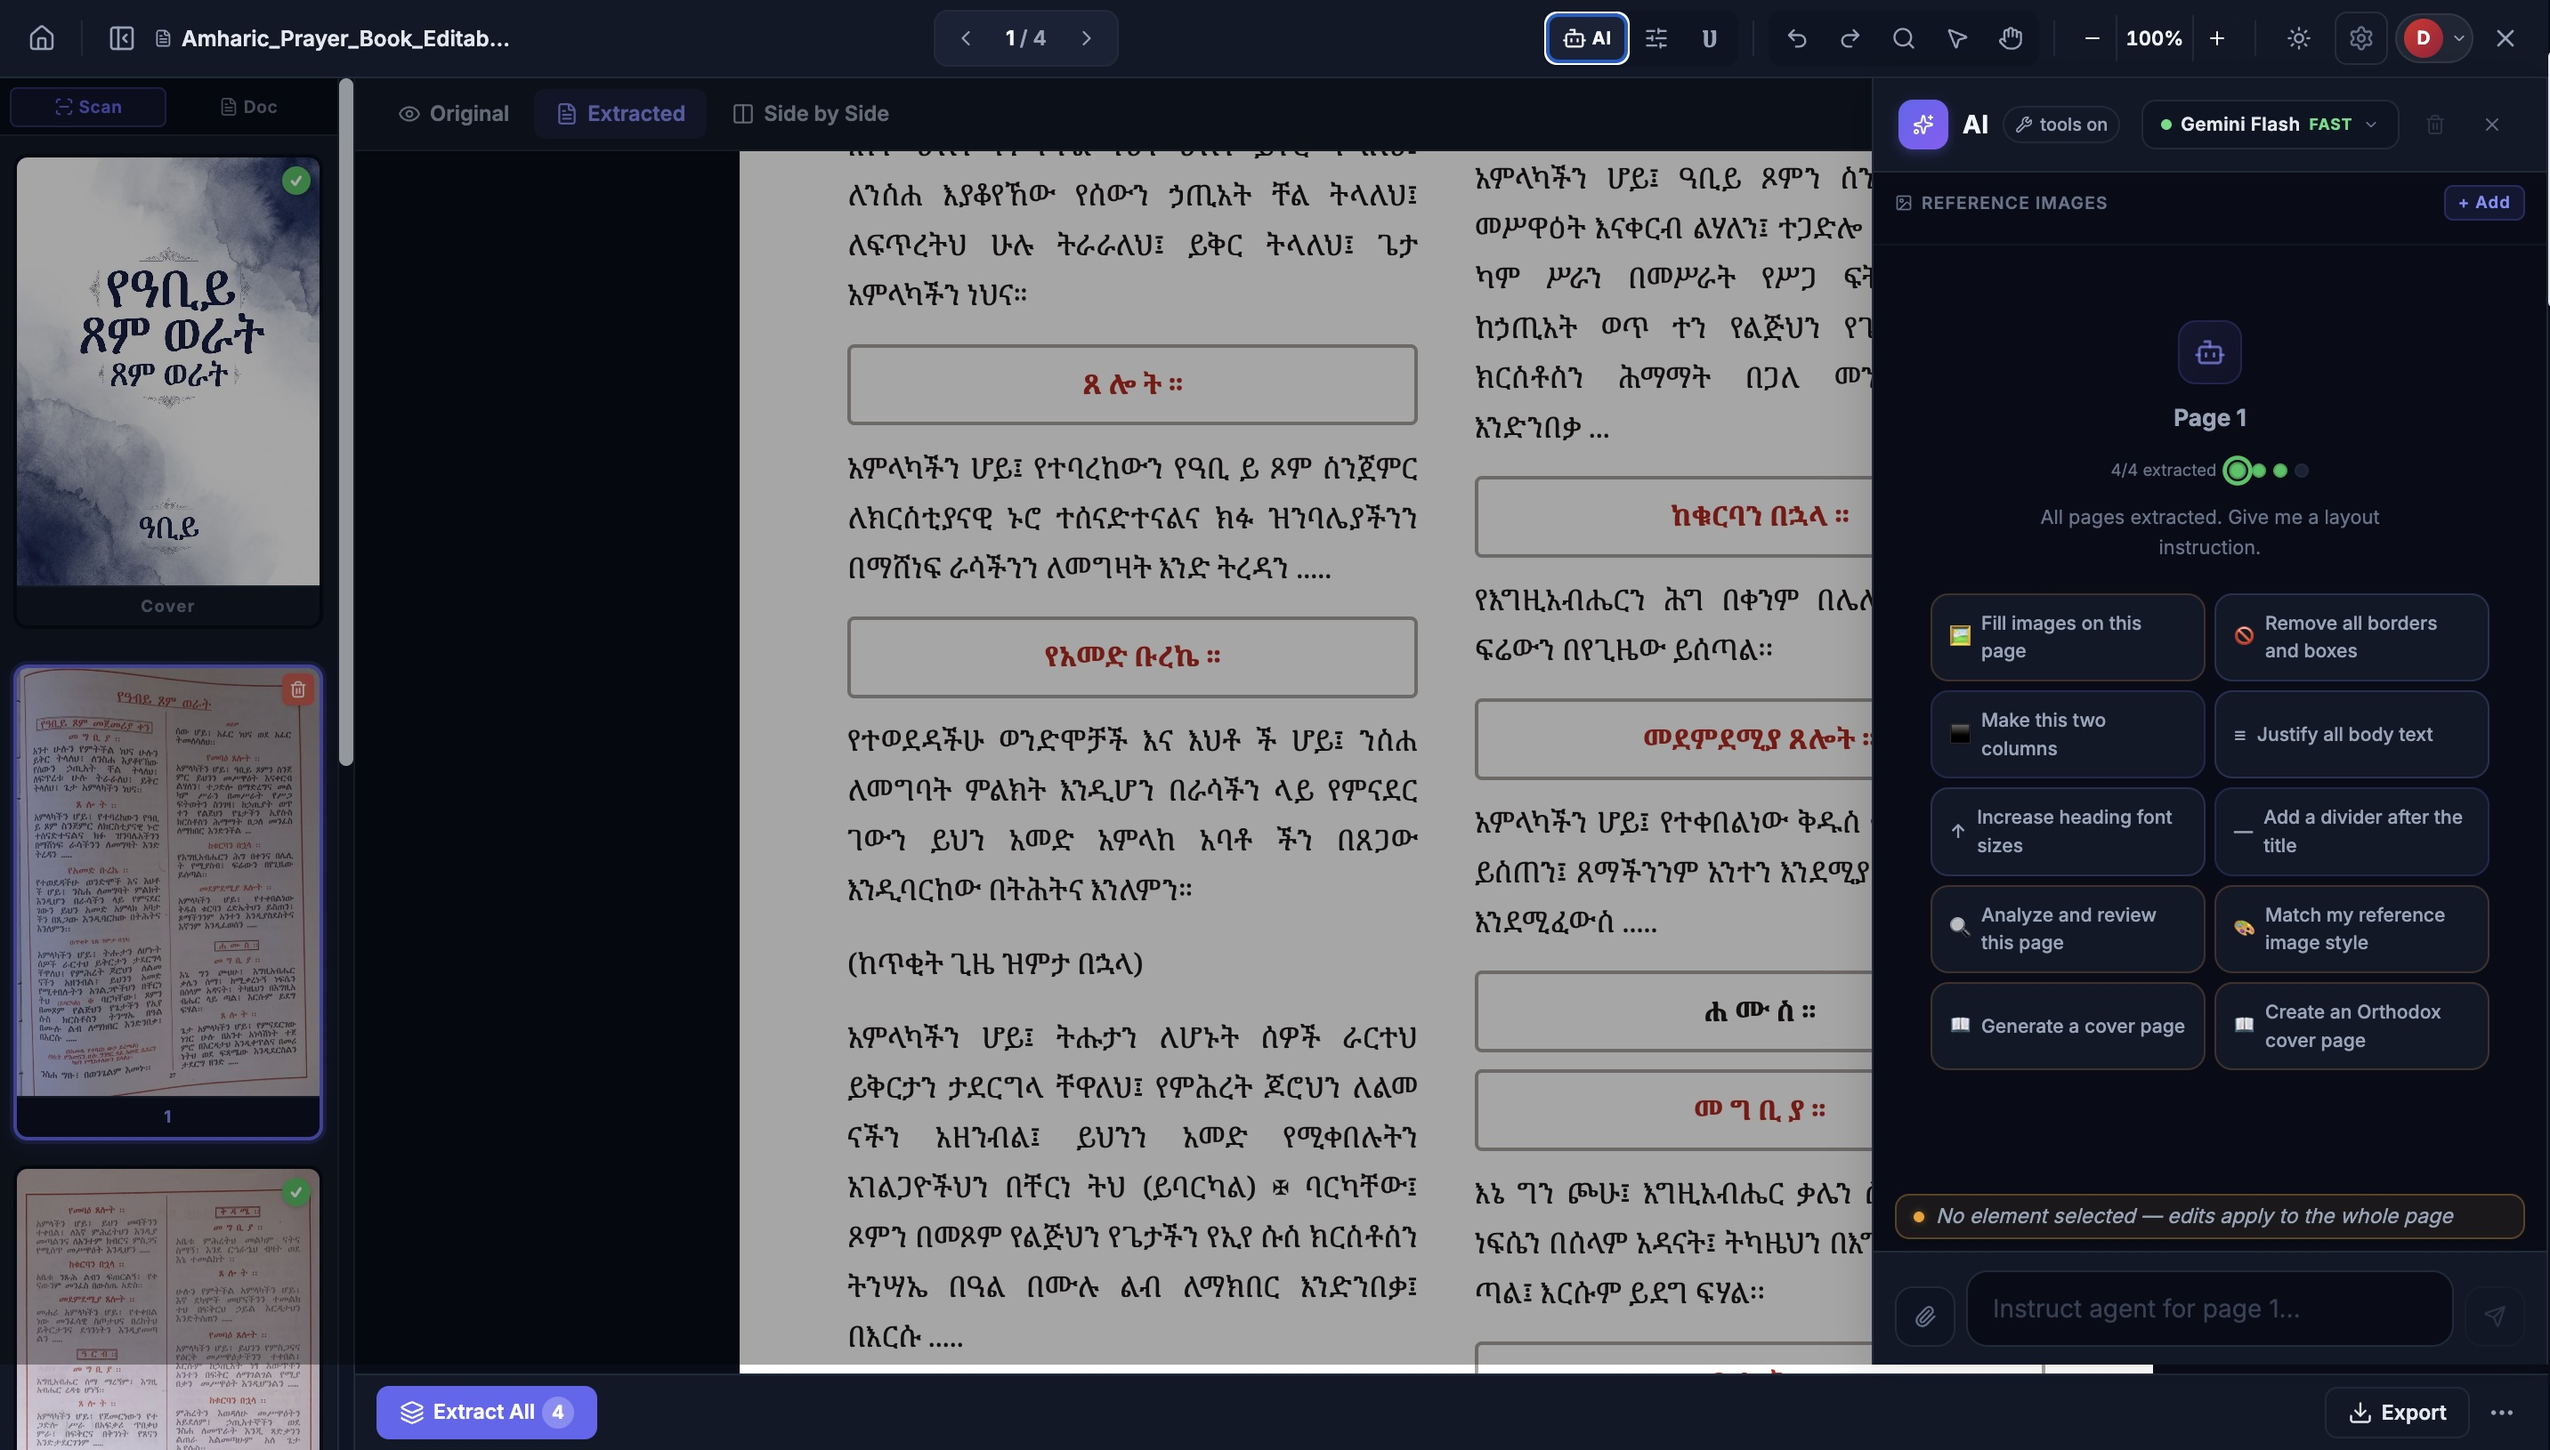
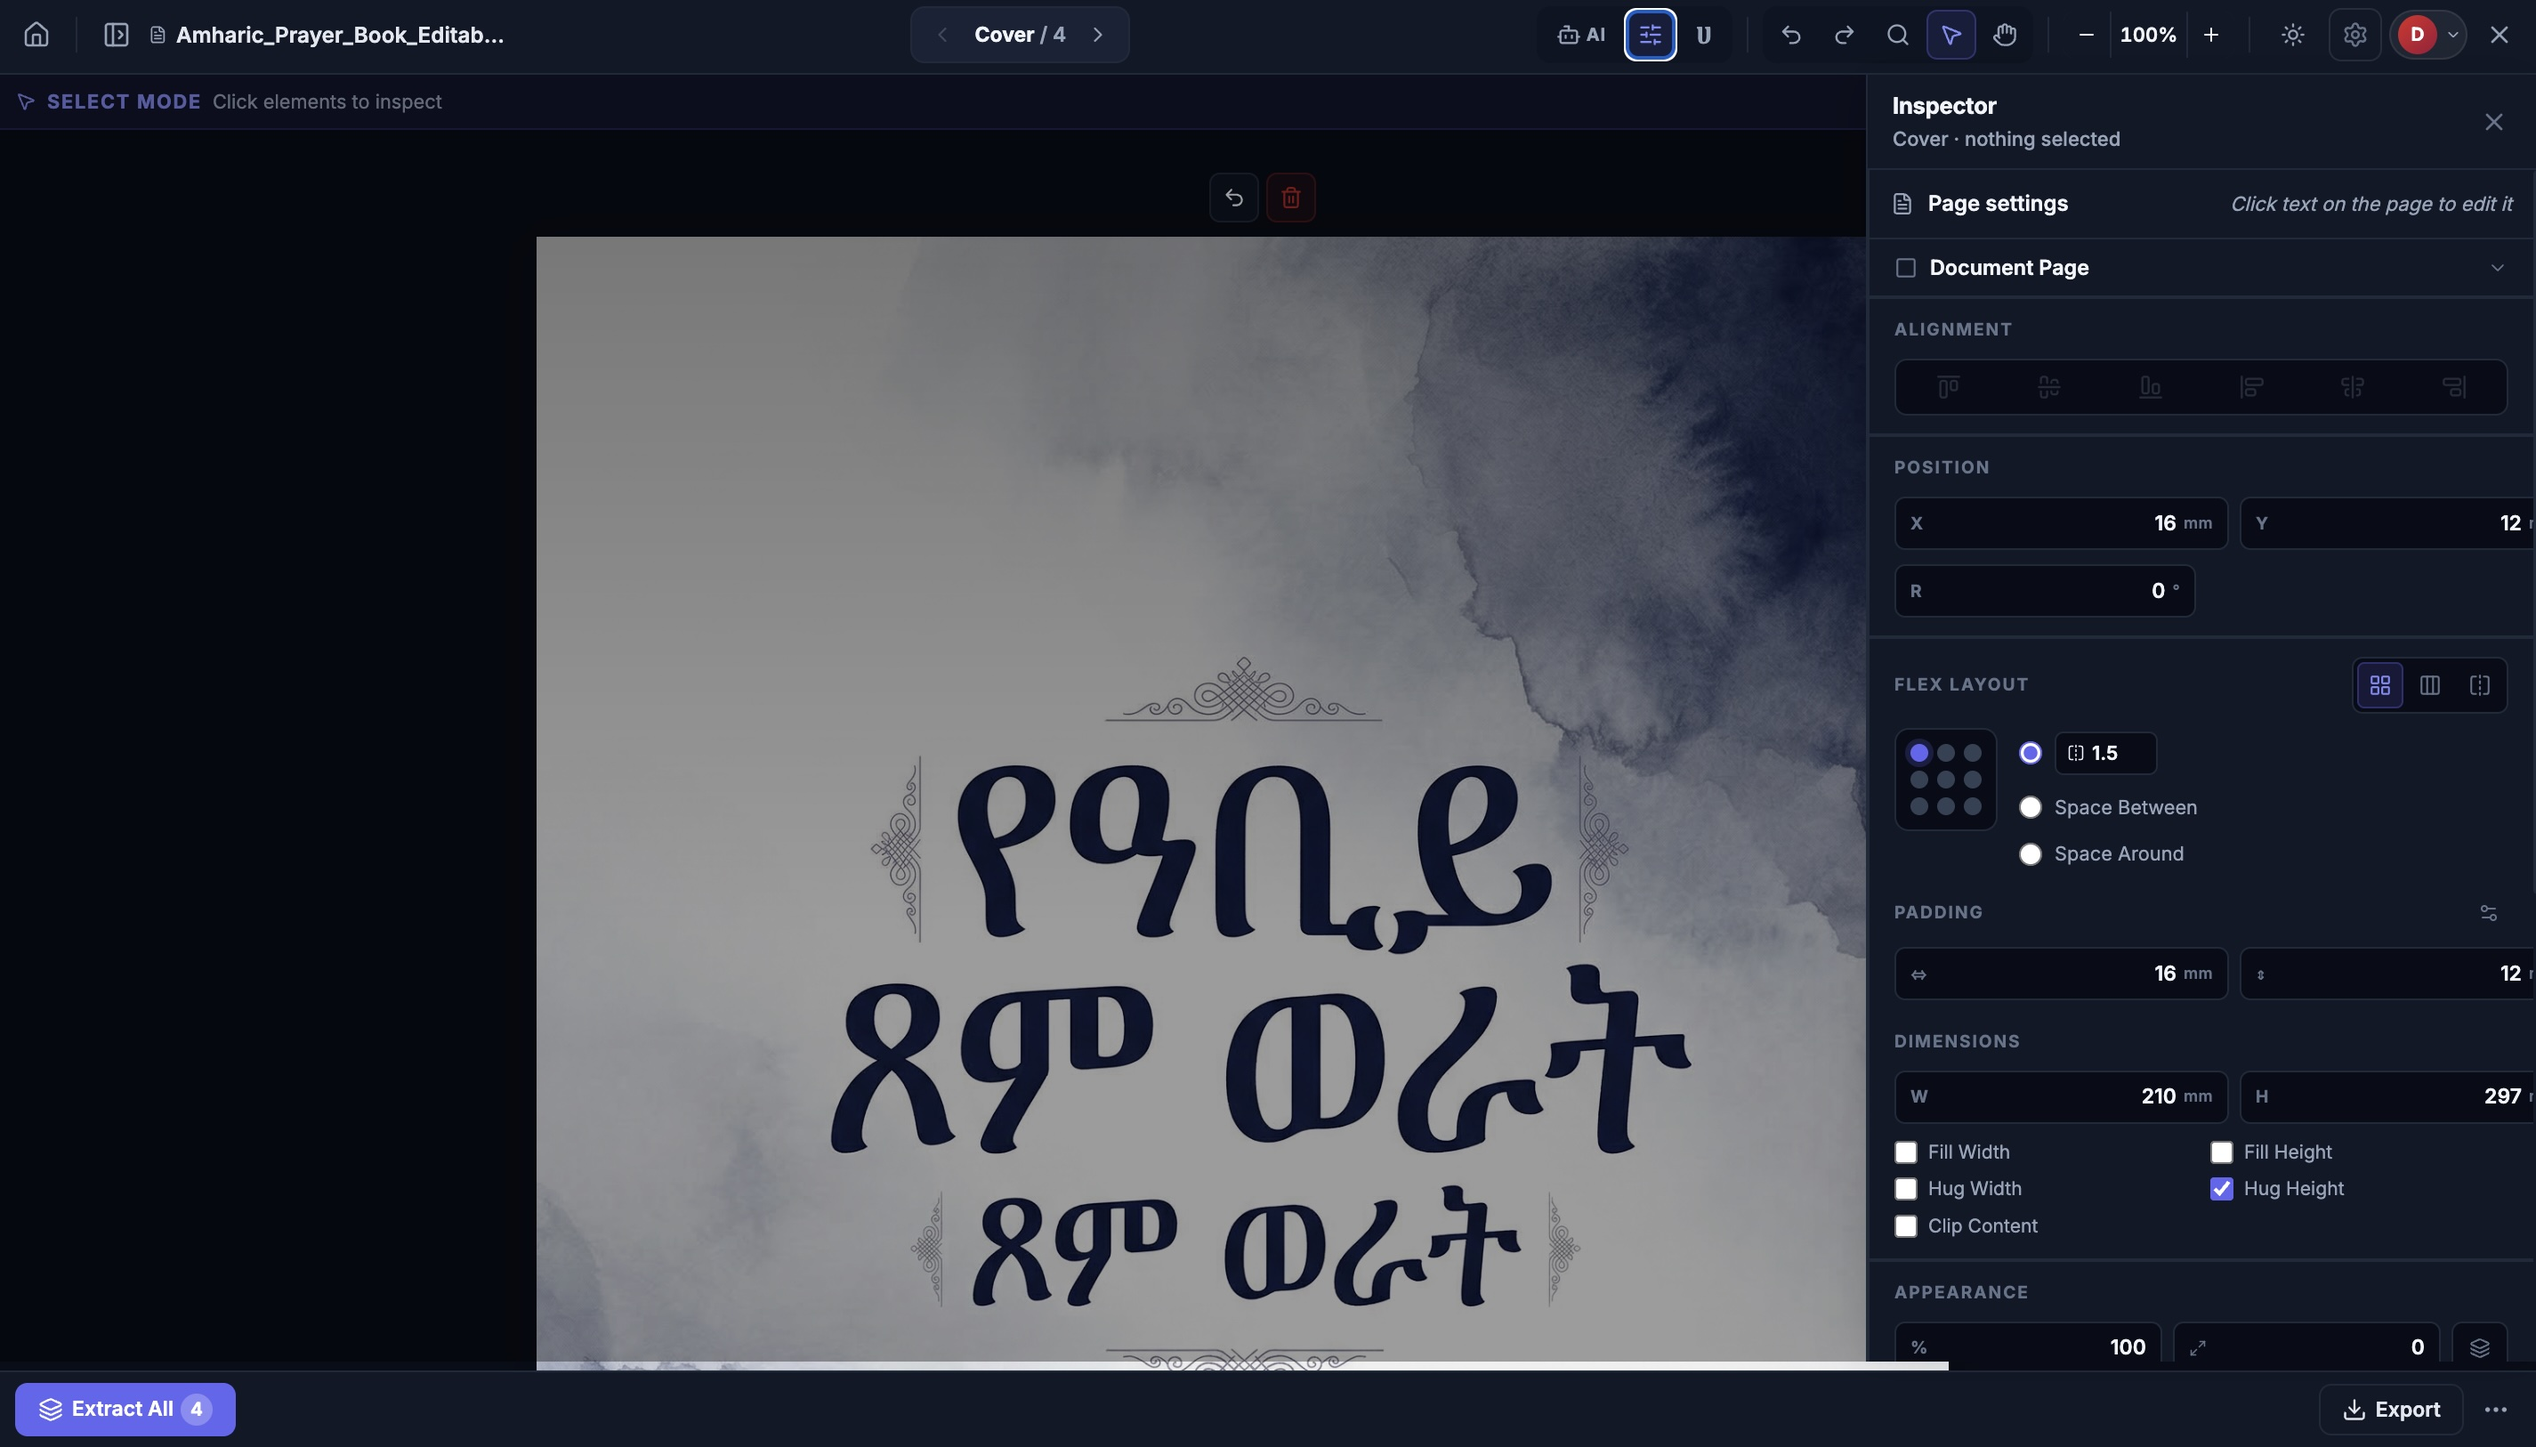
fix: correct screenshot names — scanning, editor, dark-mode

diff --git a/README.md b/README.md
@@ -96,13 +96,13 @@ OCR accuracy passes at 88% on modern Amharic print (novels, Bibles, prayer books
 
 ## Screenshots
 
-Drop these into `docs/screenshots/`:
+Screenshots are in `docs/screenshots/`:
 
 | File | Content |
 |---|---|
 | `docs/screenshots/home.png` | Home screen — document library |
 | `docs/screenshots/editor.png` | Editor — extracted document with floating dock |
-| `docs/screenshots/admin.png` | Admin panel — user management |
+| `docs/screenshots/scanning.png` | Scanning / OCR extraction in progress |
 | `docs/screenshots/dark-mode.png` | Editor in dark mode |
 
 ## License
